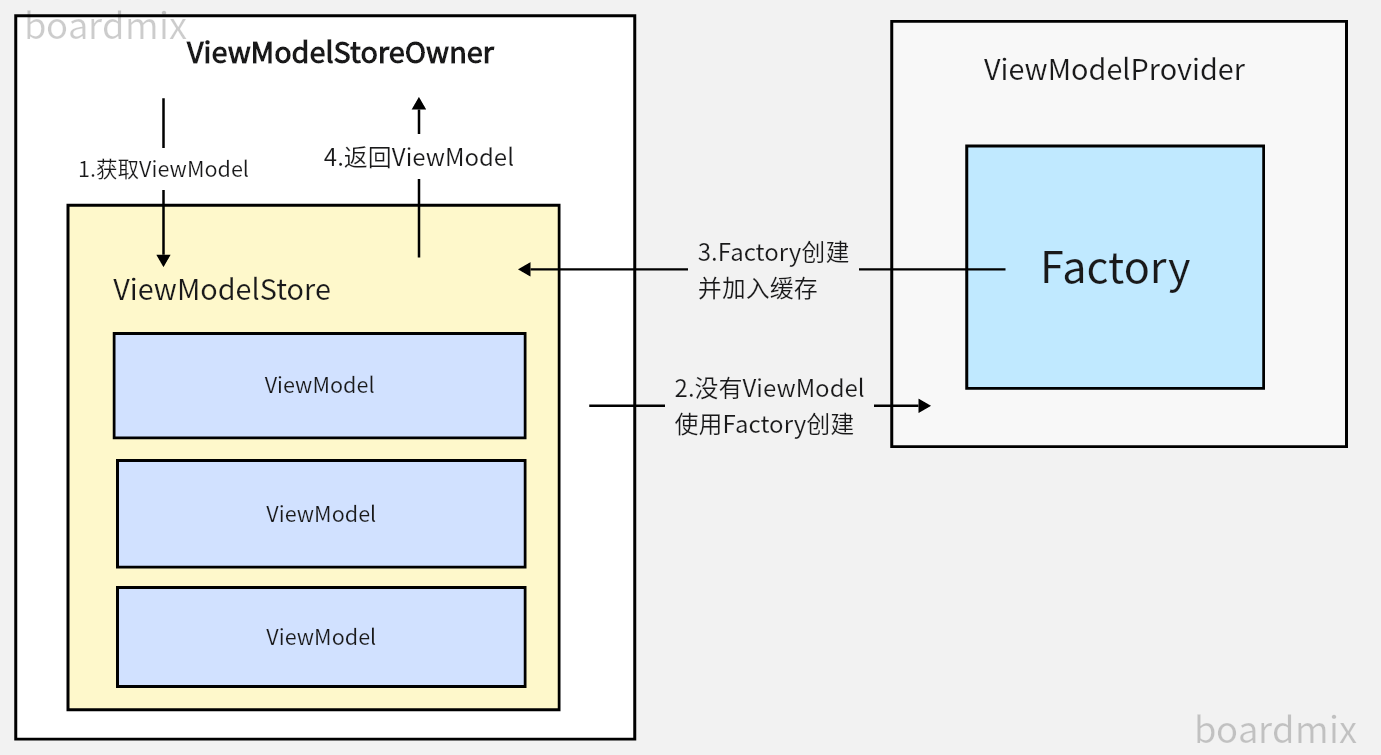
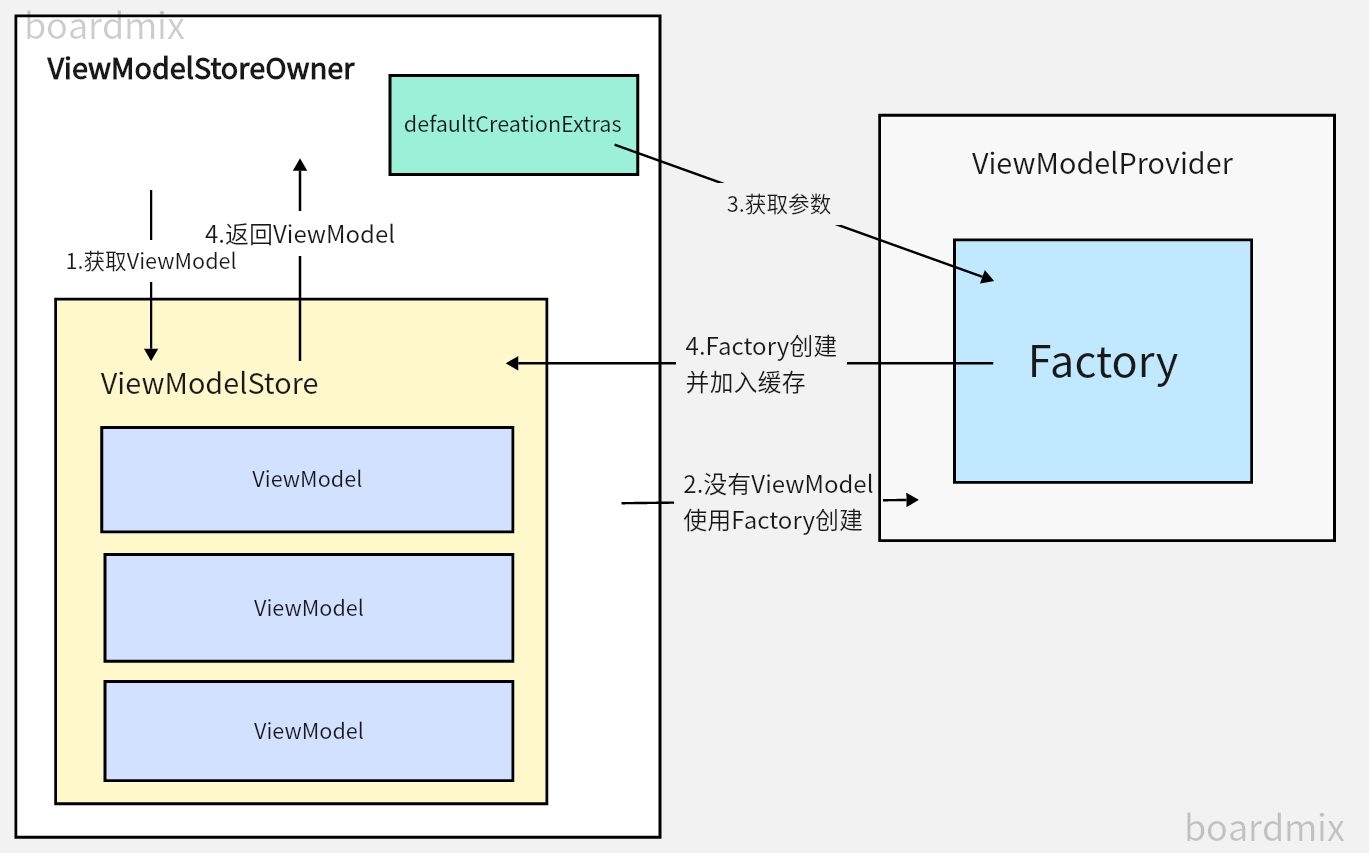
提交

diff --git a/docs/blogs/ViewModel.md b/docs/blogs/ViewModel.md
@@ -140,9 +140,13 @@ author: 晴天小庭
 
 <center><img src="./viewModel_res/viewModel_07.png" alt="viewModel_07" style="zoom:67%;" /></center>
 
+那么`ViewModel`何时被关闭呢？答案是组件遇到「非配置更新导致的销毁」的时候。
 
+简单看看`ComponentActivity`的源码可以看见，只有非配置更新导致的销毁，才会让`ViewModelStore`销毁。
 
-可以看到，上面提到的`ViewModel`的特性似乎都与这个类没有任何关系，这只是一个没有任何东西的抽象类，由此可见`ViewModel`的核心机制并不能单纯靠这个类实现。
+<center><img src="./viewModel_res/viewModel_22.png" alt="viewModel_22" style="zoom:67%;" /></center>
+
+综合来说，`ViewModel`的基类只提供一个销毁时的监听的功能，其创建、销毁由库中的其他组件实现，其业务实现则全部交给开发者。
 
 #### 3.1.2、ViewModelStore、ViewModelStoreOwner
 
@@ -163,23 +167,78 @@ author: 晴天小庭
 
 上文提到`ViewModelStore`只是一个存储`ViewModel`的容器，它并没有创建`ViewModel`的功能，而`ViewModelProvider`正好弥补了这个功能。
 
-从图中可以看出两点：
+从下图中可以看出两点：
 
 - `ViewModelProvider`通过工厂类创建`ViewModel`
 
 - `ViewModelProvider`的核心代码是get()，其原理就是简单的有就取缓存，没有就用工厂类创建一个`ViewModel`并放置在`ViewModel`与缓存中
 
-> 为什么需要工厂类？因为`ViewModel`和`Fragment`需要在非开发者干预的情况下由系统创建，这种模式只能由反射去实现，工厂类就是定义了不同构造函数的反射创建方式。
-
 <center><img src="./viewModel_res/viewModel_09.png" alt="viewModel_09" style="zoom:67%;" /></center>
 
-#### 3.1.4、小总结
+#### 3.1.4、Factory
+
+> 本小节由[CreationExtras 来了，创建 ViewModel 的新方式 - 掘金 (juejin.cn)](https://juejin.cn/post/7072541180667363358?searchId=20231128121208B328021859E9704316AD)中精炼总结得来，可以读原文获取更加详细的信息。
+
+上文提到 `ViewModel` 是使用工厂类来实例化的，因为`ViewModel`和`Fragment`需要在非开发者干预的情况下由系统创建，而工厂类就是定义了不同构造函数的创建方式。
+
+<center><img src="./viewModel_res/viewModel_14.png" alt="viewModel_14" style="zoom:67%;" /></center>
+
+可以看出存在着两套创建方式，一套是带 CreationExtras一套是不带的，导致这种原因是`ViewModel`在2.5.0 版本中新增了一种带 `CreationExtras` 的构建方式。
+
+要讲清楚这一套新增的方式做了什么，我们首先把目光放回以前，看看以前的方式：
+
+##### 3.1.4.1、传统的Factory与其缺陷
+
+假设开发者需要在`ViewModel`中增加非空构造函数，则需要实现对应的工厂类，假设有一个`ViewModel`的构造函数需要Application和一个仓储类作为入参，则需要实现一个这样的工厂类：
+
+<center><img src="./viewModel_res/viewModel_15.png" alt="viewModel_15" style="zoom:67%;" /></center>
+
+可以看出，该`ViewModel`的工厂类和其需要的参数基本要保持一致，这样才可以保证工厂类创建`ViewModel`时拥有所有的参数。
+
+但是我们回顾这种方式有什么缺陷呢？其实缺陷还是挺大的，如下：
+
+- `ViewModel`需要的参数可能较多，而且不同的`ViewModel`也大相径庭，让工厂类丢失了工厂的作用，开发者几乎要为不同的`ViewModel`都创建一个工厂类。
+- 工厂类持有状态，不利于复用。
+
+正因为上述的问题，谷歌提出了一种新的类似于`Bundle`的解决方式，就是上文提到的 `CreationExtras` 。
+
+##### 3.1.4.2、引入CreationExtras的巨变
+
+我们重新看工厂类的另外一种方法，传入了一个`CreationExtras`的参数，这为新的构建方式提供了基础。
+
+<center><img src="./viewModel_res/viewModel_14.png" alt="viewModel_14" style="zoom:67%;" /></center>
+
+`CreationExtras`就像`Activity`跳跃时的Intent传参一样，是通过key-value的方式传递的，因此比较灵活，看看使用了新版之后该如何构建`ViewModel`：
+
+<center><img src="./viewModel_res/viewModel_16.png" alt="viewModel_16" style="zoom:67%;" /></center>
+
+这个时候，Factory不再需要构造函数和任何成员变量了，变成了彻底的「无状态」，更利于复用。
+
+可以看到的是，图中定义了一个key，是传输开发者定义的仓储类的，但是Application使用了一个预定义的Key，这个是谷歌开发者提前定义好的，其他还有几个预定义的key，如下图：
+
+| CreationExtras.Key                                        | Descriptions                                                 |
+| --------------------------------------------------------- | ------------------------------------------------------------ |
+| ViewModelProvider.NewInstanceFactory.VIEW_MODEL_KEY       | ViewModelProvider 可以基于 key 区分多个 VM 实例，VIEW_MODEL_KEY 用来提供当前 VM 的这个 key |
+| ViewModelProvider.AndroidViewModelFactory.APPLICATION_KEY | 提供当前 Application context                                 |
+| SavedStateHandleSupport.SAVED_STATE_REGISTRY_OWNER_KEY    | 提供创建 createSavedStateHandle 所需的 SavedStateRegistryOwner |
+| SavedStateHandleSupport.VIEW_MODEL_STORE_OWNER_KEY        | createSavedStateHandle 所需的 ViewModelStoreOwner            |
+| SavedStateHandleSupport.DEFAULT_ARGS_KEY                  | createSavedStateHandle 所需的 Bundle                         |
+
+上图展示的是工厂类如何使用该变量，但是变量是哪里传入的呢，读者还记得工厂类是哪里被使用吗？它是被`ViewModelProvider`使用的，那么`CreateExtras`自然是`ViewModelProvider`所提供的，我们重新看看下图：
+
+<center><img src="./viewModel_res/viewModel_17.png" alt="viewModel_17" style="zoom:67%;" /></center>
+
+可以看到，`ViewModelProvider`在构建`ViewModel`的时候，会将默认参数传给工厂类，这样工厂类就可以在构建`ViewModel`的时候，通过对应的key拿到对应的value，这样就可以满足不同`ViewModel`的构建需要了。
+
+#### 3.1.5、小总结
 
 下面以一张图总结各个组件之间的关系：
 
 <center><img src="./viewModel_res/viewModel_10.png" alt="viewModel_10" style="zoom:67%;" /></center>
 
-### 3.2、从使用流程回首ViewModel
+### 3.2、ViewModel回首掏
+
+#### 3.2.1、从使用流程回首ViewModel
 
 上文简单讲解了`ViewModel`几个核心组件的功能，下文将从`ViewModel`的使用流程去将几个组件所处的位置理清楚。
 
@@ -189,16 +248,7 @@ author: 晴天小庭
 
 <center><img src="./viewModel_res/viewModel_11.png" alt="viewModel_11" style="zoom:67%;" /></center>
 
-可以看出，`ViewModel`是由`ViewModelProvider`创建的，这里传入了2个重要参数：
-
-1. `ViewModelStoreOwner`
-2. `Factory`
-
-我们分开讲解两个参数的意义：
-
-传入`ViewModelStoreOwner`的目的并没有什么特别的，答案和这个接口一样简单，就是单纯为了获取`ViewModelStore`，上文中提到，`ViewModelProvider`会在创建`ViewModel`之后，将该实例缓存在`ViewModelStore`中，因此获取StoreOwner也不奇怪了。
-
-至于`Factory`，这里要展开说一下`defaultViewModelProviderFactory`：
+当生命周期进入onCreate()的时候，通过`ViewModelProvider`来新建一个`MyViewModel`，留意到工厂类传的值是`defaultViewModelProviderFactory`。
 
 这个参数来自于一个接口：`HasDefaultViewModelProviderFactory`：
 
@@ -212,5 +262,74 @@ author: 晴天小庭
 
 <center><img src="./viewModel_res/viewModel_13.png" alt="viewModel_13" style="zoom:67%;" /></center>
 
-可以看出，这是一个创建「参数带有SavedState」的`ViewModel`，同时`SavedState`默认带有`Activity`的getIntent().getExtras()，而在`Fragment`中则是getArugments()。
+可以看出，这是一个创建「参数带有SavedState」的`ViewModel`的工厂类，同时`SavedState`默认带有`Activity`的getIntent().getExtras()，而在`Fragment`中则是getArugments()（图中没体现，读者可以去Fragment的源码中查看）。
 
+因此开发者在`ComponentActivity`中创建`ViewModelProvider`的时候使用的默认工厂其实就是`SavedStateViewModelFactory`。
+
+> 如果你从来没有手动传过这个默认工厂也没关系，`ViweModelProvider` 会自动从`ViewModelStoreOwner`中拿，哪怕 `ViewModelStoreOwner`没有默认工厂也会使用一个最简单的实例化工厂，但这个工厂只能用于简单的无参实例化， 不过鉴于开发者普遍使用 `ComponentActivity`这个问题应该不存在。
+
+#### 3.2.1、重谈ViewModel的by委托
+
+开发者目前比较喜欢的创建方式是使用by委托来创建`ViewModel`，如下：
+
+<center><img src="./viewModel_res/viewModel_18.png" alt="viewModel_18" style="zoom:67%;" /></center>
+
+这种方式背后做了什么呢？我们看看`viewModels`的定义：
+
+<center><img src="./viewModel_res/viewModel_19.png" alt="viewModel_19" style="zoom:67%;" /></center>
+
+可以看出，这个委托还有2个参数，分别是传入`CreationExtras`和`Factory`，读者还记得它们是做什么的吗？如果你忘了建议回去看看第三节。
+
+继续从代码中可以读出，如果开发者不传`Factory`，那么就用使用`ComponentActivity`的默认工厂类，这个上面也提到了，实际上就是`SavedStateViewModelFactory`。
+
+相同的是，如果开发者不传`CreationExtras`，那么就会使用使用`defaultViewModelCreationExtras`。
+
+> `ViewModelLazy`就不进一步研究了，代码非常简单，读者自行研究即可，本质上就是套了一层kotlin的lazy委托来实现懒加载。
+
+
+
+终上所述，在`ComponentActivity`中使用`by viewModels`创建`ViewModel`基本等价于下面的代码：
+
+<center><img src="./viewModel_res/viewModel_20.png" alt="viewModel_20" style="zoom:67%;" /></center>
+
+当然，使用by委托还可以享受懒加载的优势，这样就不用监听生命周期，建议一律使用谷歌官方封装的委托。
+
+## 4、项目实践中看ViewModel
+
+#### 4.1、构造函数为空的ViewModel
+
+对于这种`ViewModel`使用来说最为简单，直接使用委托即可
+
+#### 4.2、需要访问SavedStateHandle的ViewModel
+
+对于这种`ViewModel`使用也非常简单，直接使用委托即可，因为`ComponentActivity`、`Fragment`等常见场景都已经适配了`SavedStateHandle`。
+
+#### 4.3、需要更多参数的ViewModel
+
+#### 4.3.1、自定义工厂类+自定义CreationExtras
+
+对于这种场景，开发者需要在委托中传入自定义的工厂类，例如某个`ViewModel`需要一个`SavedStateHandle`和一个仓储类作为入参，开发者可以实现如下代码：
+
+代码虽然多了很多，但是实际上只多做了几件事：
+
+- 自定义了一个key，在构建`CreationExtra`的时候，使用了该key传入用户自定义的仓储类。需要注意的是，由于`CreationExtras`不可变的设计，开发者需要用`MutableCreationExtras`套住原来的Extras来传递新值。
+
+- 构建工厂类的时候，通过用户自定义的key获取到了仓储类。需要注意的是获取`SavedStateHandle`并不是简单的使用key来获取，而是使用了谷歌官方封装的扩展方法，因为`SavedStateHandle`的构建相对麻烦，还需要访问`SavedStateRegistry`（状态保存一章有提到）。
+
+<center><img src="./viewModel_res/viewModel_21.png" alt="viewModel_21" style="zoom:67%;" /></center>
+
+#### 4.3.2、使用Hilt依赖注入框架实现参数注入
+
+上述提到的工厂类仍然非常麻烦，虽然开发者只需要设计一个工厂类，但是对于不同的`ViewModel`仍需要实现不同的`CreateExtras`取值方式，有没有一种更解耦的方式呢，答案是有的，就是依赖注入。这里推荐使用Jetpack的Hilt。
+
+关于Hilt的具体使用读者可以去安卓开发者文档参考具体使用说明，文章链接如下：
+
+[使用 Hilt 实现依赖项注入](https://developer.android.google.cn/training/dependency-injection/hilt-android?hl=zh-cn)
+
+[将 Hilt 和其他 Jetpack 库一起使用)](https://developer.android.google.cn/training/dependency-injection/hilt-jetpack?hl=zh-cn)
+
+## 5、总结
+
+`ViewModel`是安卓开发进入MVVM时代的产物，后MVVM时代不仅是开发模式与开发思想都发生了剧烈的变化，作为漩涡中心的`ViewModel`的位置的重要性不可小视，然而`ViewModel`的却是许多开发中眼中的「最熟悉的陌生人」，多数开发者只会使用或者做少许的定制，对`ViewModel`的实现机制并不了解，这限制了开发者的能力上限甚至写出了有问题的`ViewModel`代码。
+
+本文从`ViewModel`能够跨越配置更新出发，讲解了ViewModel的核心组件的原理与关系，并提供了一些基础的定制化方案，但仍有许多细节和定制化内容有待读者挖掘。
